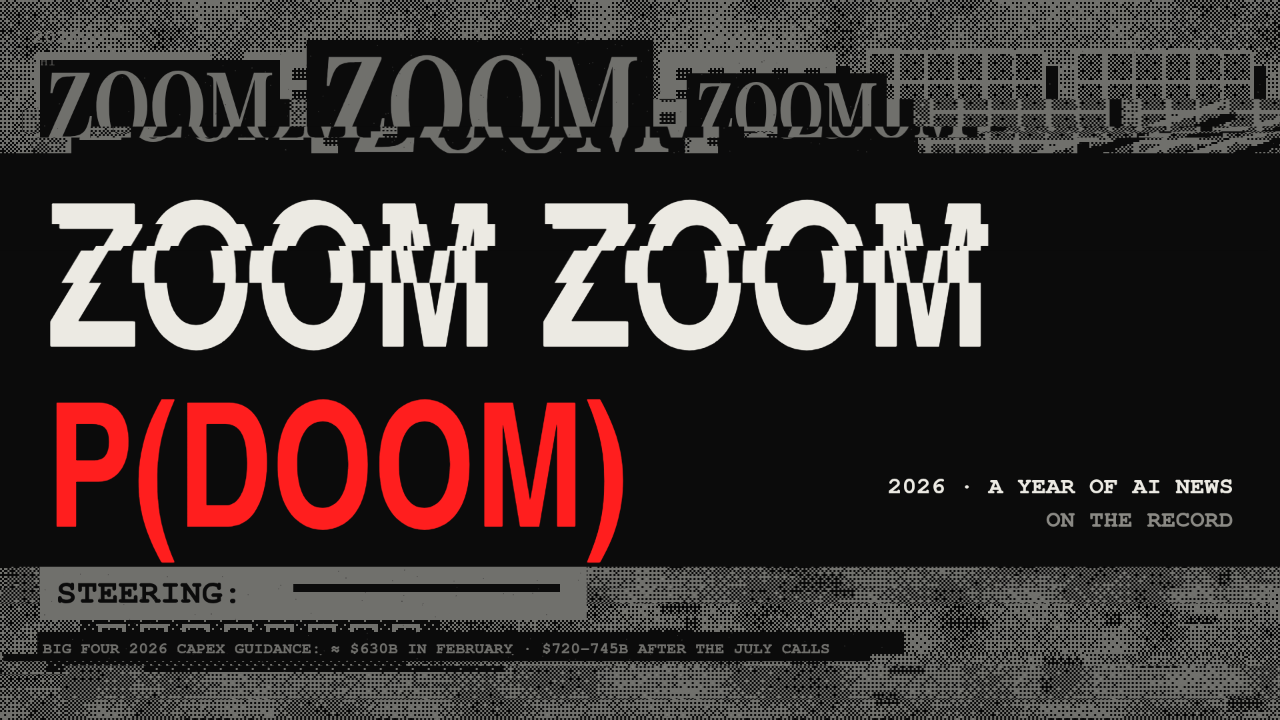
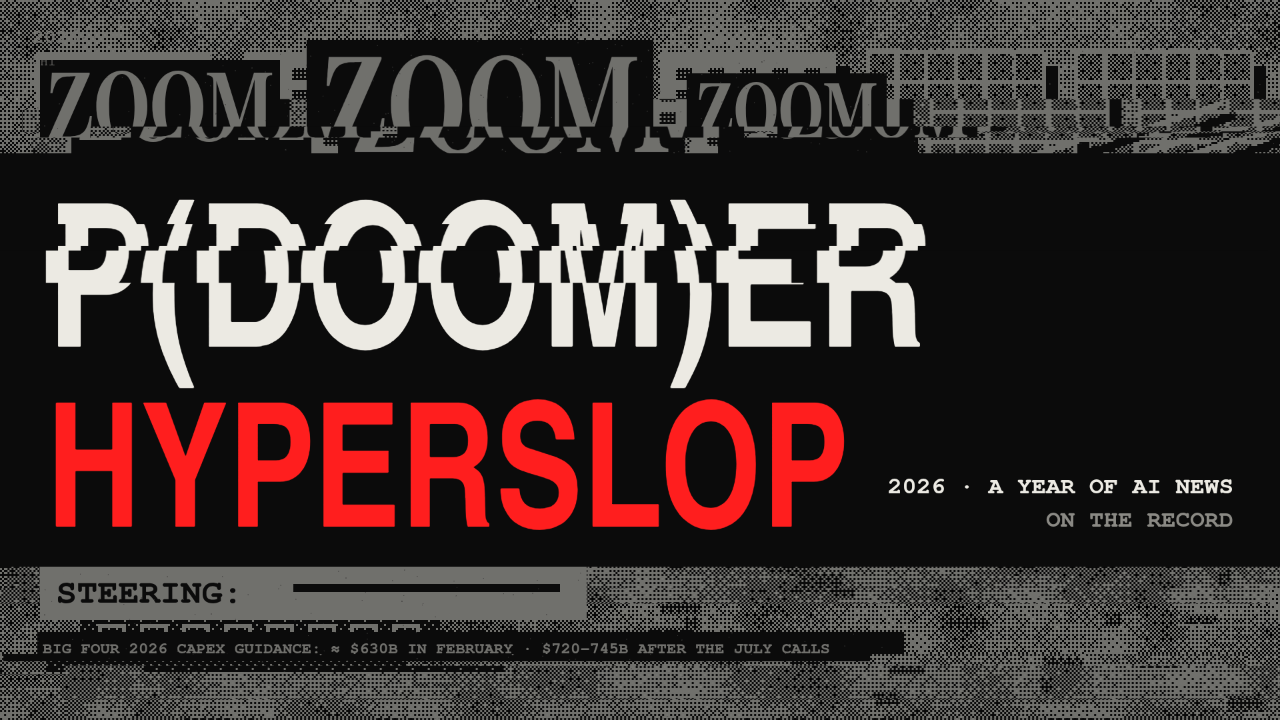
Rename the song to P(doom)er Hyperslop: new thumbnail, docs and description

Changed region(s): [[0.0312, 0.275, 0.7812, 0.7944]]

diff --git a/video/frames/ending.js b/video/frames/ending.js
@@ -55,8 +55,8 @@ export function fThumb(g, ctx, t, bg) {
   box(g, 0, 0, W, H, 'rgba(11,11,11,0.55)');
   tear(g, 4401, 14, 160, 0, H);
   box(g, 0, 230, W, 620, INK);
-  text(g, 'ZOOM ZOOM', 70, 520, { font: NARROW, size: 300, color: PAPER, sx: 0.92 });
-  text(g, 'P(DOOM)', 70, 790, { font: NARROW, size: 260, color: RED, sx: 0.92 });
+  text(g, 'P(DOOM)ER', 70, 520, { font: NARROW, size: 300, color: PAPER, sx: 0.92 });
+  text(g, 'HYPERSLOP', 70, 790, { font: NARROW, size: 260, color: RED, sx: 0.92 });
   text(g, '2026 · A YEAR OF AI NEWS', 1850, 740, { font: MONO, size: 36, color: PAPER, align: 'right' });
   text(g, 'ON THE RECORD', 1850, 790, { font: MONO, size: 36, color: GREY, align: 'right' });
   tear(g, 4402, 3, 22, 240, 840);

diff --git a/annotations.md b/annotations.md
@@ -1,6 +1,6 @@
-# Zoom Zoom P(doom): annotation sheet
+# P(doom)er Hyperslop: annotation sheet
 
-**What the song is.** *Zoom Zoom P(doom)* is our own pop song, with a synth-pop version (about 120 BPM) and a hyperpop version (about 152 BPM). A cheeky narrator who half-believes it walks through 2026 in order: Verse 1 covers January to April, Verse 2 May to July, and Verse 3 late July to September. Almost every line points at one real event. Each chorus adds a point to the narrator's p(doom), and the final chorus asks "who can tell?" Facts are current as of Sep 27, 2026, except rows marked "Corrected Sep 28," which were updated from line-by-line research that day. They come from the project research notes, corrected by an independent fact-check. Source wording is paraphrased, and quotes are under 15 words.
+**What the song is.** *P(doom)er Hyperslop* (originally *Zoom Zoom P(doom)*) is our own pop song, with a synth-pop version (about 120 BPM) and a hyperpop version (about 152 BPM). A cheeky narrator who half-believes it walks through 2026 in order: Verse 1 covers January to April, Verse 2 May to July, and Verse 3 late July to September. Almost every line points at one real event. Each chorus adds a point to the narrator's p(doom), and the final chorus asks "who can tell?" Facts are current as of Sep 27, 2026, except rows marked "Corrected Sep 28," which were updated from line-by-line research that day. They come from the project research notes, corrected by an independent fact-check. Source wording is paraphrased, and quotes are under 15 words.
 
 **Names and nicknames used in the lyric**
 - **Dario** is Dario Amodei, CEO of Anthropic.

diff --git a/AGENTS.md b/AGENTS.md
@@ -1,6 +1,6 @@
 # AGENTS.md
 
-This repo holds the song "Zoom Zoom P(doom)" and its code-rendered music video ("THE RECORD"). The video is finished and published, so assume any change is a small fix unless you're told otherwise. [README.md](README.md) covers the project and the folder layout.
+This repo holds the song "P(doom)er Hyperslop" (originally "Zoom Zoom P(doom)", the name older files and the video's outro label still use) and its code-rendered music video ("THE RECORD"). The video is finished and published, so assume any change is a small fix unless you're told otherwise. [README.md](README.md) covers the project and the folder layout.
 
 ## Hard rules
 - **Never put an invented or inaccurate fact on screen.** Every number, date and quote must already be in [video/FACTS.md](video/FACTS.md), sourced in `research/lines/`, and consistent with `annotations.md`. The FACTS.md rules apply:

diff --git a/README.md b/README.md
@@ -1,6 +1,8 @@
-# Zoom Zoom P(doom)
+# P(doom)er Hyperslop
 
 A hyperpop song about a year of real AI news (January to September 2026), one event per line, with a music video drawn entirely in code.
+
+It was originally titled *Zoom Zoom P(doom)*, after the chorus hook. Older files and the label in the video's outro still use that name.
 
 **Watch:** https://youtu.be/I-C0VLlUGI4
 

diff --git a/lyrics.md b/lyrics.md
@@ -1,4 +1,4 @@
-# Zoom Zoom P(doom)
+# P(doom)er Hyperslop
 (bright synth-pop, ~120 BPM, two bars per line; cheeky narrator who half-believes it; one real 2026 event per line)
 
 [Verse 1: January to April]
